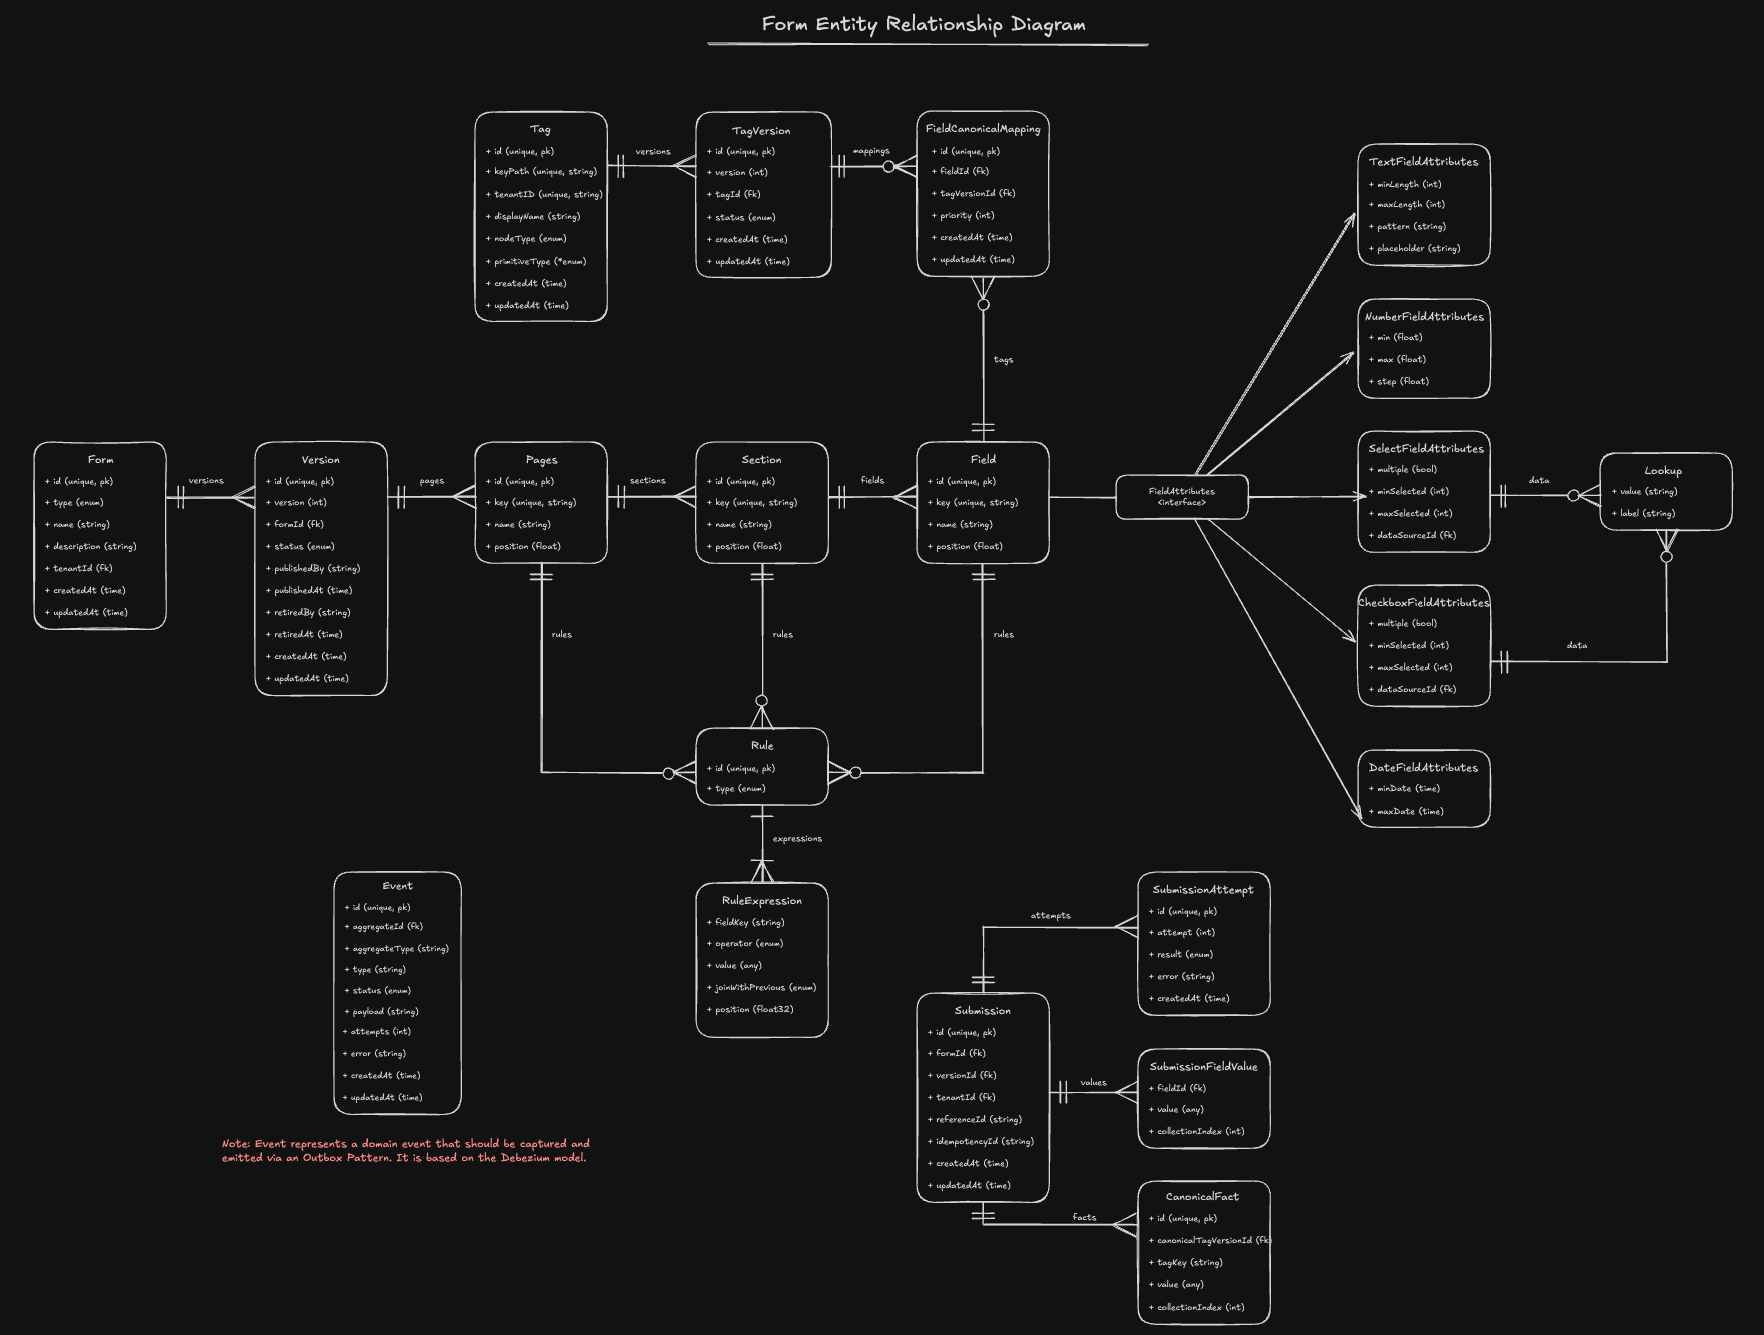
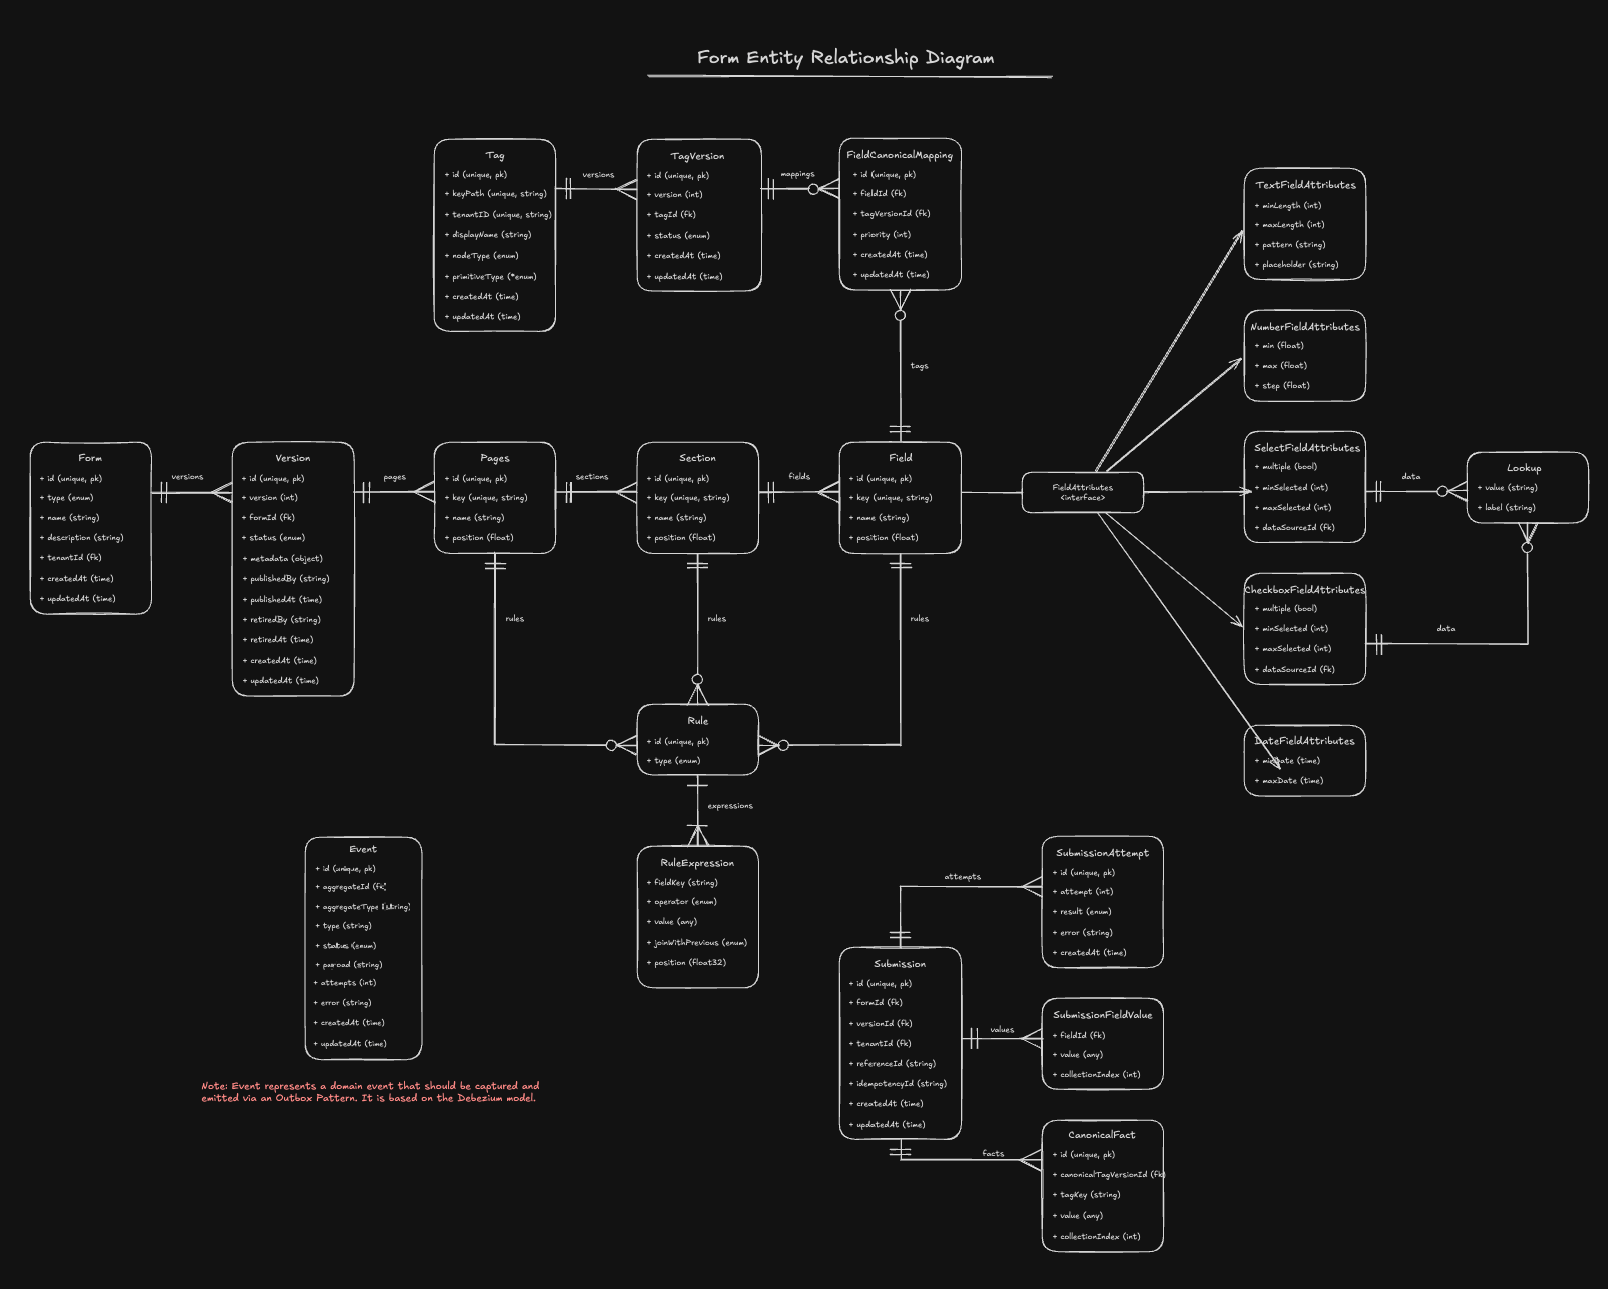
forms | add metadata to form_version

diff --git a/backend/services/forms/internal/adapters/persistence/mongodb/documents/form_version.go b/backend/services/forms/internal/adapters/persistence/mongodb/documents/form_version.go
@@ -6,17 +6,18 @@ import (
 )
 
 type FormVersionDocument struct {
-	ID          string          `bson:"_id"`
-	FormID      string          `bson:"form_id"`
-	Version     int             `bson:"version"`
-	Status      string          `bson:"status"`
-	PublishedBy string          `bson:"published_by"`
-	PublishedAt time.Time       `bson:"published_at"`
-	RetiredBy   string          `bson:"retired_by"`
-	RetiredAt   time.Time       `bson:"retired_at"`
-	CreatedAt   time.Time       `bson:"created_at"`
-	UpdatedAt   time.Time       `bson:"updated_at"`
-	Pages       []*PageDocument `bson:"pages"`
+	ID          string            `bson:"_id"`
+	FormID      string            `bson:"form_id"`
+	Version     int               `bson:"version"`
+	Status      string            `bson:"status"`
+	Metadata    map[string]string `bson:"metadata"`
+	PublishedBy string            `bson:"published_by"`
+	PublishedAt time.Time         `bson:"published_at"`
+	RetiredBy   string            `bson:"retired_by"`
+	RetiredAt   time.Time         `bson:"retired_at"`
+	CreatedAt   time.Time         `bson:"created_at"`
+	UpdatedAt   time.Time         `bson:"updated_at"`
+	Pages       []*PageDocument   `bson:"pages"`
 }
 
 func ToFormVersionDocument(v *domain.FormVersion) (*FormVersionDocument, error) {
@@ -38,6 +39,7 @@ func ToFormVersionDocument(v *domain.FormVersion) (*FormVersionDocument, error) 
 		FormID:      string(v.FormID),
 		Version:     v.Version,
 		Status:      string(v.Status),
+		Metadata:    v.Metadata,
 		PublishedBy: v.PublishedBy,
 		PublishedAt: v.PublishedAt,
 		RetiredBy:   v.RetiredBy,
@@ -54,6 +56,7 @@ func FromFormVersionDocument(v *FormVersionDocument) (*domain.FormVersion, error
 		domain.FormID(v.FormID),
 		v.Version,
 		domain.FormVersionStatus(v.Status),
+		v.Metadata,
 		v.PublishedBy,
 		v.PublishedAt,
 		v.RetiredBy,

diff --git a/backend/services/forms/internal/adapters/rest/handlers/form_handlers_test.go b/backend/services/forms/internal/adapters/rest/handlers/form_handlers_test.go
@@ -368,8 +368,8 @@ func Test_handlers_GetFormVersions(t *testing.T) {
 		{
 			"should yield OK if the request is successful with results",
 			func(ctx context.Context, query ports.FindFormVersionsQuery) ([]*domain.FormVersion, error) {
-				v1, _ := domain.NewFormVersion("form-1", 1, domain.FormVersionStatusDraft)
-				v2, _ := domain.NewFormVersion("form-1", 2, domain.FormVersionStatusActive)
+			v1, _ := domain.NewFormVersion("form-1", 1, domain.FormVersionStatusDraft, nil)
+			v2, _ := domain.NewFormVersion("form-1", 2, domain.FormVersionStatusActive, nil)
 				return []*domain.FormVersion{v1, v2}, nil
 			},
 			http.StatusOK,
@@ -442,7 +442,7 @@ func Test_handlers_GetFormVersion(t *testing.T) {
 		{
 			"should yield OK if the request is successful",
 			func(ctx context.Context, query ports.FindFormVersionByIDQuery) (*domain.FormVersion, error) {
-				v, _ := domain.NewFormVersion(query.ID, 1, domain.FormVersionStatusDraft)
+				v, _ := domain.NewFormVersion(query.ID, 1, domain.FormVersionStatusDraft, nil)
 				return v, nil
 			},
 			http.StatusOK,
@@ -503,8 +503,8 @@ func Test_handlers_CreateFormVersion(t *testing.T) {
 		{
 			"should yield CREATED if the request is successful",
 			func(ctx context.Context, command *commands.CreateFormVersionCommand) (*domain.FormVersion, error) {
-				v, _ := domain.NewFormVersion(command.FormID, 1, domain.FormVersionStatusDraft)
-				return v, nil
+			v, _ := domain.NewFormVersion(command.FormID, 1, domain.FormVersionStatusDraft, nil)
+			return v, nil
 			},
 			http.StatusCreated,
 			dto.UpsertFormVersionRequest{
@@ -564,8 +564,8 @@ func Test_handlers_UpdateFormVersion(t *testing.T) {
 		{
 			"should yield OK if the request is successful",
 			func(ctx context.Context, command *commands.UpdateFormVersionCommand) (*domain.FormVersion, error) {
-				v, _ := domain.NewFormVersion(command.FormID, 1, domain.FormVersionStatusDraft)
-				return v, nil
+			v, _ := domain.NewFormVersion(command.FormID, 1, domain.FormVersionStatusDraft, nil)
+			return v, nil
 			},
 			http.StatusOK,
 			dto.UpsertFormVersionRequest{
@@ -625,7 +625,7 @@ func Test_handlers_PublishFormVersion(t *testing.T) {
 		{
 			"should yield OK if the request is successful",
 			func(ctx context.Context, command commands.PublishFormVersionCommand) (*domain.FormVersion, error) {
-				v, _ := domain.NewFormVersion(command.FormID, 1, domain.FormVersionStatusActive)
+				v, _ := domain.NewFormVersion(command.FormID, 1, domain.FormVersionStatusActive, nil)
 				return v, nil
 			},
 			http.StatusOK,
@@ -676,7 +676,7 @@ func Test_handlers_RetireFormVersion(t *testing.T) {
 		{
 			"should yield OK if the request is successful",
 			func(ctx context.Context, command commands.RetireFormVersionCommand) (*domain.FormVersion, error) {
-				v, _ := domain.NewFormVersion(command.FormID, 1, domain.FormVersionStatusRetired)
+				v, _ := domain.NewFormVersion(command.FormID, 1, domain.FormVersionStatusRetired, nil)
 				return v, nil
 			},
 			http.StatusOK,

diff --git a/backend/services/forms/internal/core/ports/commands/form_version.go b/backend/services/forms/internal/core/ports/commands/form_version.go
@@ -12,15 +12,17 @@ type baseFormVersionCommand struct {
 
 type CreateFormVersionCommand struct {
 	baseFormVersionCommand
+	Metadata  map[string]string
 	PagesData []PageData
 }
 
-func NewCreateFormVersionCommand(tenantID string, formID domain.FormID, pages []PageData) *CreateFormVersionCommand {
+func NewCreateFormVersionCommand(tenantID string, formID domain.FormID, metadata map[string]string, pages []PageData) *CreateFormVersionCommand {
 	return &CreateFormVersionCommand{
 		baseFormVersionCommand: baseFormVersionCommand{
 			TenantID: tenantID,
 			FormID:   formID,
 		},
+		Metadata:  metadata,
 		PagesData: pages,
 	}
 }
@@ -32,17 +34,25 @@ func (c *CreateFormVersionCommand) Validate() error {
 type UpdateFormVersionCommand struct {
 	baseFormVersionCommand
 	VersionID domain.FormVersionID `validate:"required"`
-	PagesData     []PageData
+	Metadata  map[string]string
+	PagesData []PageData
 }
 
-func NewUpdateFormVersionCommand(tenantID string, id domain.FormVersionID, formID domain.FormID, pages []PageData) *UpdateFormVersionCommand {
+func NewUpdateFormVersionCommand(
+	tenantID string,
+	id domain.FormVersionID,
+	formID domain.FormID,
+	metadata map[string]string,
+	pages []PageData,
+) *UpdateFormVersionCommand {
 	return &UpdateFormVersionCommand{
 		baseFormVersionCommand: baseFormVersionCommand{
 			TenantID: tenantID,
 			FormID:   formID,
 		},
 		VersionID: id,
-		PagesData:     pages,
+		Metadata:  metadata,
+		PagesData: pages,
 	}
 }
 

diff --git a/backend/services/forms/internal/core/domain/form_version.go b/backend/services/forms/internal/core/domain/form_version.go
@@ -32,6 +32,7 @@ type FormVersion struct {
 	FormID      FormID            `validate:"required"`
 	Version     int               `validate:"required,min=1"`
 	Status      FormVersionStatus `validate:"required"`
+	Metadata    map[string]string
 	PublishedBy string
 	PublishedAt time.Time
 	RetiredBy   string
@@ -41,7 +42,7 @@ type FormVersion struct {
 	pages       PositionElements[*Page]
 }
 
-func NewFormVersion(formID FormID, version int, status FormVersionStatus) (*FormVersion, error) {
+func NewFormVersion(formID FormID, version int, status FormVersionStatus, metadata map[string]string) (*FormVersion, error) {
 	if !isValidFormVersionStatus(status) {
 		return nil, ErrInvalidVersionStatus
 	}
@@ -51,6 +52,7 @@ func NewFormVersion(formID FormID, version int, status FormVersionStatus) (*Form
 		FormID:    formID,
 		Version:   version,
 		Status:    status,
+		Metadata:  metadata,
 		pages:     make(PositionElements[*Page], 0),
 		CreatedAt: Now(),
 	}
@@ -67,6 +69,7 @@ func HydrateFormVersion(
 	formID FormID,
 	version int,
 	status FormVersionStatus,
+	metadata map[string]string,
 	publishedBy string,
 	publishedAt time.Time,
 	retiredBy string,
@@ -79,6 +82,7 @@ func HydrateFormVersion(
 		FormID:      formID,
 		Version:     version,
 		Status:      status,
+		Metadata:    metadata,
 		PublishedBy: publishedBy,
 		PublishedAt: publishedAt,
 		RetiredBy:   retiredBy,
@@ -152,6 +156,13 @@ func (v *FormVersion) ReplacePages(pages ...*Page) error {
 		return err
 	}
 
+	v.UpdatedAt = Now()
+
+	return nil
+}
+
+func (v *FormVersion) Update(metadata map[string]string) error {
+	v.Metadata = metadata
 	v.UpdatedAt = Now()
 
 	return nil

diff --git a/backend/services/forms/internal/adapters/rest/docs/docs.go b/backend/services/forms/internal/adapters/rest/docs/docs.go
@@ -2472,6 +2472,12 @@ const docTemplate = `{
                 "id": {
                     "type": "string"
                 },
+                "metadata": {
+                    "type": "object",
+                    "additionalProperties": {
+                        "type": "string"
+                    }
+                },
                 "pages": {
                     "type": "array",
                     "items": {
@@ -2932,6 +2938,12 @@ const docTemplate = `{
         "UpsertFormVersionRequest": {
             "type": "object",
             "properties": {
+                "metadata": {
+                    "type": "object",
+                    "additionalProperties": {
+                        "type": "string"
+                    }
+                },
                 "pages": {
                     "type": "array",
                     "items": {

diff --git a/backend/services/forms/internal/core/services/forms_service.go b/backend/services/forms/internal/core/services/forms_service.go
@@ -227,7 +227,7 @@ func (s *formsService) CreateVersion(ctx context.Context, cmd *commands.CreateFo
 		return nil, err
 	}
 
-	version, err := domain.NewFormVersion(cmd.FormID, versionNum, domain.FormVersionStatusDraft)
+	version, err := domain.NewFormVersion(cmd.FormID, versionNum, domain.FormVersionStatusDraft, cmd.Metadata)
 	if err != nil {
 		s.logger.WarnContext(ctx, "version creation failed; domain invariant violation", "tenant_id", cmd.TenantID, "form_id", cmd.FormID, "error", err)
 		return nil, err
@@ -287,6 +287,11 @@ func (s *formsService) UpdateVersion(ctx context.Context, cmd *commands.UpdateFo
 	}
 
 	if err := version.ReplacePages(pages...); err != nil {
+		s.logger.WarnContext(ctx, "version update failed; domain invariant violation", "tenant_id", cmd.TenantID, "form_id", cmd.FormID, "version_id", cmd.VersionID, "error", err)
+		return nil, err
+	}
+
+	if err := version.Update(cmd.Metadata); err != nil {
 		s.logger.WarnContext(ctx, "version update failed; domain invariant violation", "tenant_id", cmd.TenantID, "form_id", cmd.FormID, "version_id", cmd.VersionID, "error", err)
 		return nil, err
 	}

diff --git a/backend/services/forms/internal/adapters/rest/dto/form_version.go b/backend/services/forms/internal/adapters/rest/dto/form_version.go
@@ -7,7 +7,8 @@ import (
 )
 
 type UpsertFormVersionRequest struct {
-	Pages []PageRequest `json:"pages" validate:"dive"`
+	Metadata map[string]string `json:"metadata,omitempty"`
+	Pages    []PageRequest     `json:"pages" validate:"dive"`
 }
 
 type FormVersionResponse struct {
@@ -15,6 +16,7 @@ type FormVersionResponse struct {
 	FormID        domain.FormID            `json:"formId"`
 	Version       int                      `json:"version"`
 	Status        domain.FormVersionStatus `json:"status"`
+	Metadata      map[string]string        `json:"metadata"`
 	PublishedByID string                   `json:"publishedById"`
 	PublishedAt   time.Time                `json:"publishedAt"`
 	RetiredByID   string                   `json:"retiredById"`
@@ -41,6 +43,7 @@ func FormVersionToResponse(version *domain.FormVersion) *FormVersionResponse {
 		FormID:        version.FormID,
 		Version:       version.Version,
 		Status:        version.Status,
+		Metadata:      version.Metadata,
 		PublishedByID: version.PublishedBy,
 		PublishedAt:   version.PublishedAt,
 		RetiredByID:   version.RetiredBy,

diff --git a/backend/services/forms/internal/adapters/rest/handlers/form_handlers.go b/backend/services/forms/internal/adapters/rest/handlers/form_handlers.go
@@ -357,7 +357,7 @@ func (h *Handlers) CreateFormVersion(w http.ResponseWriter, r *http.Request) {
 	}
 
 	resultChan := make(chan result[*domain.FormVersion], 1)
-	command := commands.NewCreateFormVersionCommand(tenantID, formID, pages)
+	command := commands.NewCreateFormVersionCommand(tenantID, formID, body.Metadata, pages)
 
 	go func() {
 		defer close(resultChan)
@@ -419,7 +419,7 @@ func (h *Handlers) UpdateFormVersion(w http.ResponseWriter, r *http.Request) {
 	}
 
 	resultChan := make(chan result[*domain.FormVersion], 1)
-	command := commands.NewUpdateFormVersionCommand(tenantID, versionID, formID, pages)
+	command := commands.NewUpdateFormVersionCommand(tenantID, versionID, formID, body.Metadata, pages)
 
 	go func() {
 		defer close(resultChan)